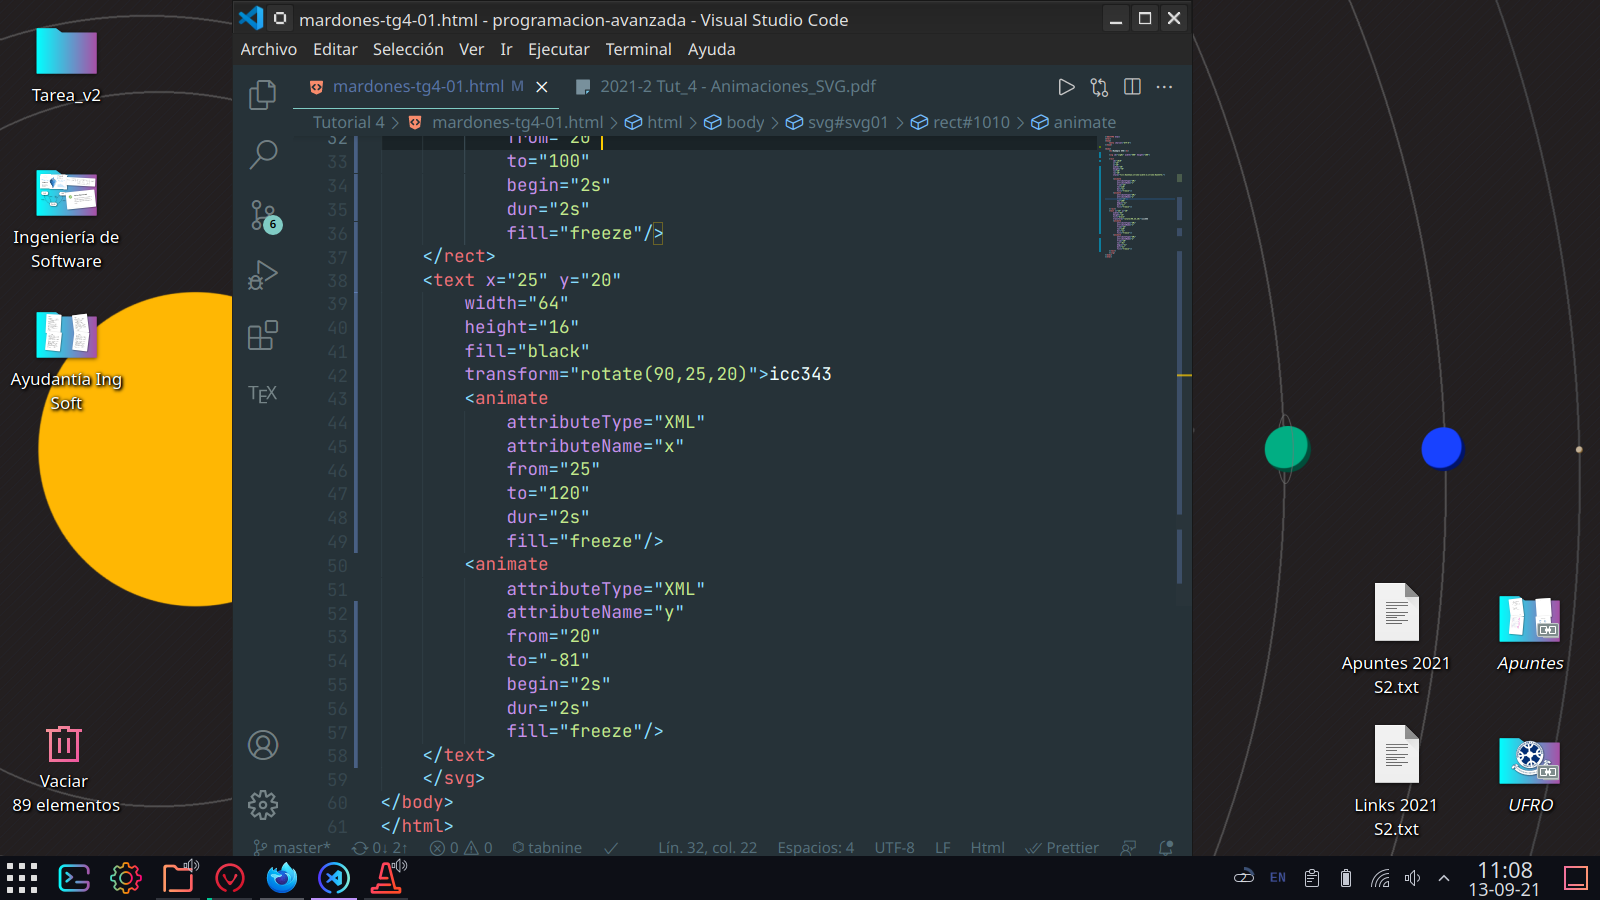
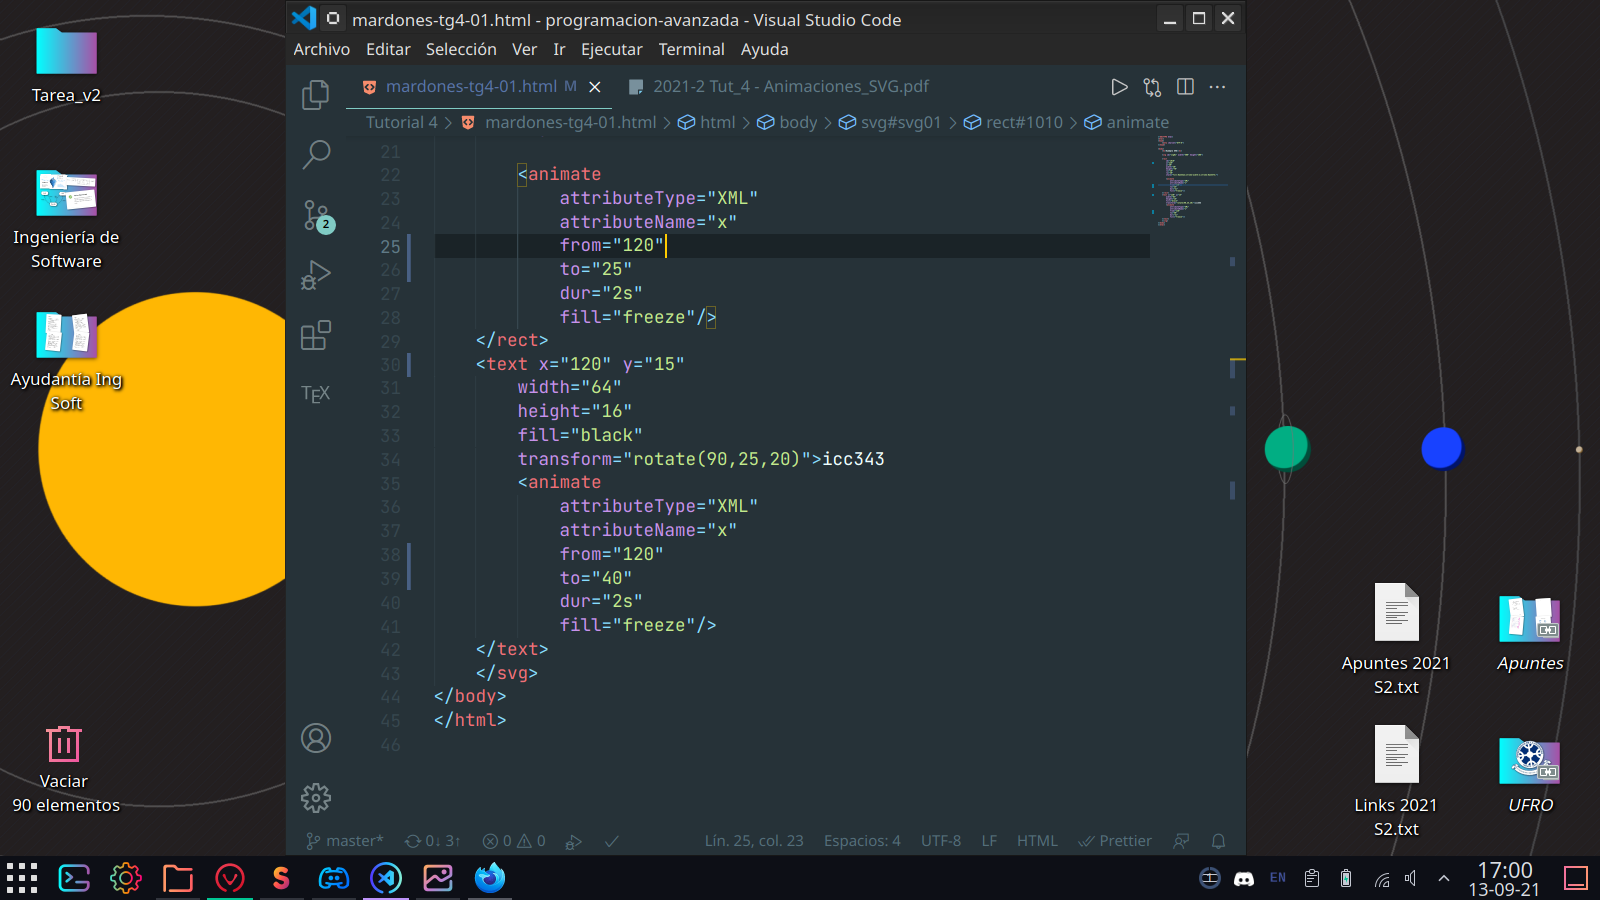
Tutorial 4 - Parte 3 (corrección)

diff --git a/Tutorial 4/mardones-tg4-01.html b/Tutorial 4/mardones-tg4-01.html
@@ -11,7 +11,7 @@
 
     <rect
         id="1010"
-        x="25"
+        x="120"
         y="20"
         width="20"
         height="70"
@@ -22,20 +22,12 @@
         <animate
             attributeType="XML"
             attributeName="x"
-            from="25"
-            to="120"
-            dur="2s"
-            fill="freeze"/>
-        <animate
-            attributeType="XML"
-            attributeName="y"
-            from="20"
-            to="100"
-            begin="2s"
+            from="120"
+            to="25"
             dur="2s"
             fill="freeze"/>
     </rect>        
-    <text x="25" y="20"
+    <text x="120" y="15"
         width="64"
         height="16"
         fill="black"
@@ -43,16 +35,8 @@
         <animate
             attributeType="XML"
             attributeName="x"
-            from="25"
-            to="120"
-            dur="2s"
-            fill="freeze"/>
-        <animate
-            attributeType="XML"
-            attributeName="y"
-            from="20"
-            to="-81"
-            begin="2s"
+            from="120"
+            to="40"
             dur="2s"
             fill="freeze"/>
     </text>
